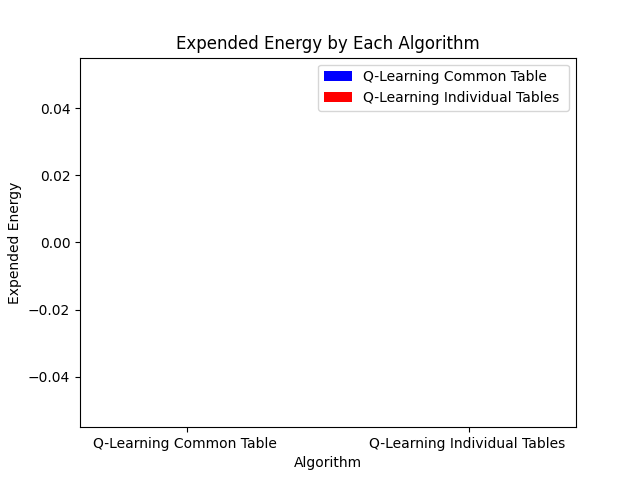
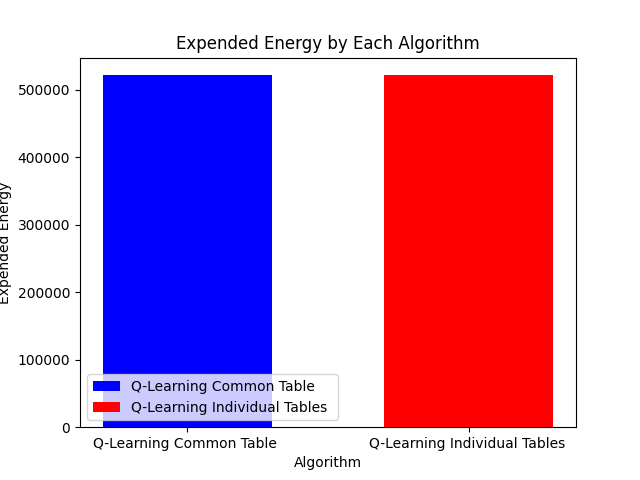
Bugfix

diff --git a/Algorithms.py b/Algorithms.py
@@ -2124,13 +2124,14 @@ class Algorithms:
 		uav_trajectory_per_episode = []
     
 		#we iterate over episodes
-		for e in tqdm(range(number_of_episodes), desc= "Running Q-Brave Algorithm"):
+		for e in tqdm(range(number_of_episodes), desc= "Running Q-Brave Coop Algorithm"):
 			
 			#we initialize the first state of the episode
 			#print("\nEPISODE START")
 			self.logger.info("EPISODE START")
 			self.reset()
-			current_state = env.reset(graph= self.get_graph(), uavs= self.get_uavs(),)
+			uavs = self.get_uavs()
+			current_state = env.reset(graph= self.get_graph(), uavs= uavs,)
 			current_state_temp = []
 			for state in current_state:
 				current_state_temp.append(state.get_node_id())
@@ -2212,6 +2213,7 @@ class Algorithms:
 			uav_visited_nodes_per_episode.append(total_visited_nodes)
 			uav_trajectory_per_episode.append(trajectories)
    
+			self.logger.info("The total bits processed for episode %d is: %s", e, total_bits_processed)
 			self.logger.info("The total reward for episode %d is: %s", e, total_episode_reward)
 			self.logger.info("The UAVs have visited %d nodes in episode %d", total_visited_nodes, e)
 			self.logger.info("The UAVs have visited the nodes: %s", trajectories)
@@ -2297,13 +2299,14 @@ class Algorithms:
 		uav_trajectory_per_episode = []
     
 		#we iterate over episodes
-		for e in tqdm(range(number_of_episodes), desc= "Running Q-Brave Algorithm"):
+		for e in tqdm(range(number_of_episodes), desc= "Running Q-Brave Individual Algorithm"):
 			
 			#we initialize the first state of the episode
 			#print("\nEPISODE START")
 			self.logger.info("EPISODE START")
 			self.reset()
-			current_state = env.reset(graph= self.get_graph(), uavs= self.get_uavs(),)
+			uavs = self.get_uavs()
+			current_state = env.reset(graph= self.get_graph(), uavs= uavs,)
 			current_state_temp = []
 			for state in current_state:
 				current_state_temp.append(state.get_node_id())

diff --git a/plot_graphs_multi_agent.py b/plot_graphs_multi_agent.py
@@ -54,7 +54,7 @@ def plot_graphs_multi_agent(folder_path: str = "multi_q_learning_results") -> No
     
     plt.title('Total Bits Processed by Each Algorithm')
     
-    plt.legend()
+    plt.legend( loc='lower left')
     
     plt.savefig(os.path.join(folder_path, 'total_bits.png'))
     
@@ -79,7 +79,7 @@ def plot_graphs_multi_agent(folder_path: str = "multi_q_learning_results") -> No
     
     plt.title('Expended Energy by Each Algorithm')
     
-    plt.legend()
+    plt.legend( loc='lower left')
     
     plt.savefig(os.path.join(folder_path, 'expended_energy.png'))
     
@@ -103,7 +103,7 @@ def plot_graphs_multi_agent(folder_path: str = "multi_q_learning_results") -> No
     
     plt.title('Total Visited Nodes by Each Algorithm')
     
-    plt.legend()
+    plt.legend( loc='lower left')
     
     plt.savefig(os.path.join(folder_path, 'total_visited_nodes.png'))
     

diff --git a/Multiagent_Qenv.py b/Multiagent_Qenv.py
@@ -143,7 +143,7 @@ class Multiagent_Qenv(gym.Env):
 					if self.solving_method == "cvxpy":
 						# Play the submodular game
 						maximized_utility, percentage_offloaded = user.play_submodular_game_cvxpy(other_user_strategies, c, b, uav_bandwidth, other_user_channel_gains, other_user_transmit_powers, other_user_data_in_bits, 
-																								uav_cpu_frequency, uav_total_data_processing_capacity, self.T, self.uav.get_current_coordinates(), self.uav.get_height())
+																								uav_cpu_frequency, uav_total_data_processing_capacity, self.T, self.uavs[i].get_current_coordinates(), self.uavs[i].get_height())
 						
 						#logging.info("User %d has offloaded %f of its data", idx, percentage_offloaded[0])
 						#logging.info("User %d has maximized its utility to %s", idx, maximized_utility)

diff --git a/multi_agent_experiment.py b/multi_agent_experiment.py
@@ -14,7 +14,7 @@ q_brave_time = 0
 # Create N nodes with U users in them
 N = 10
 NODE_RADIUS = 2
-MIN_DISTANCE_BETWEEN_NODES = 20  # Minimum distance to maintain between nodes
+MIN_DISTANCE_BETWEEN_NODES = 40  # Minimum distance to maintain between nodes
 UAV_HEIGHT = 30
 CONVERGENCE_THRESHOLD = 1e-15
 UAV_ENERGY_CAPACITY = 1065600
